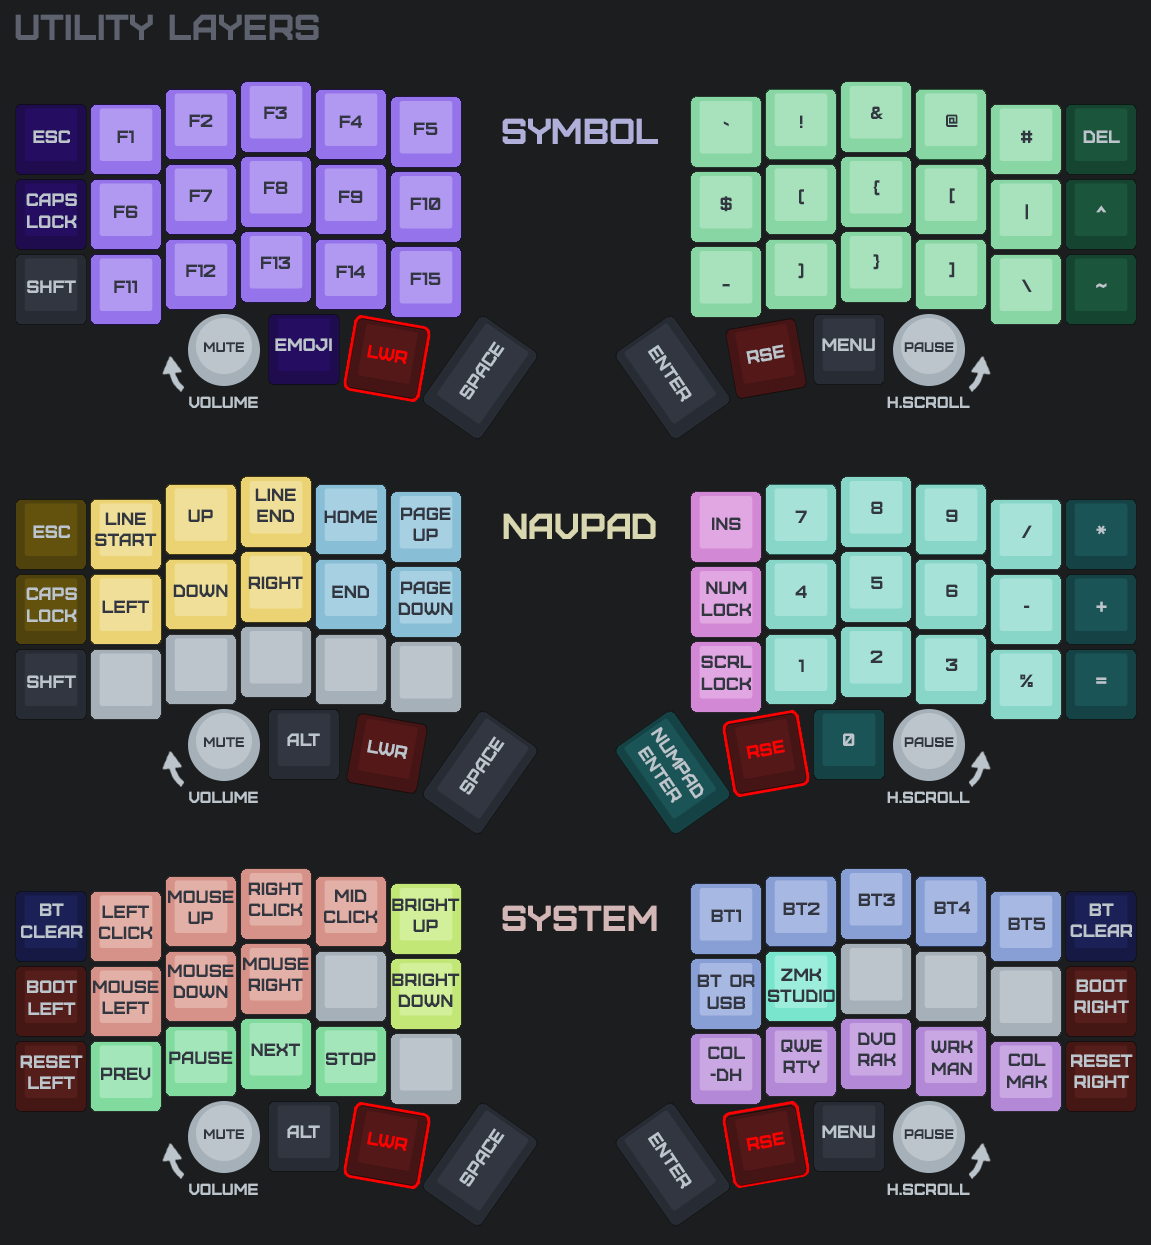
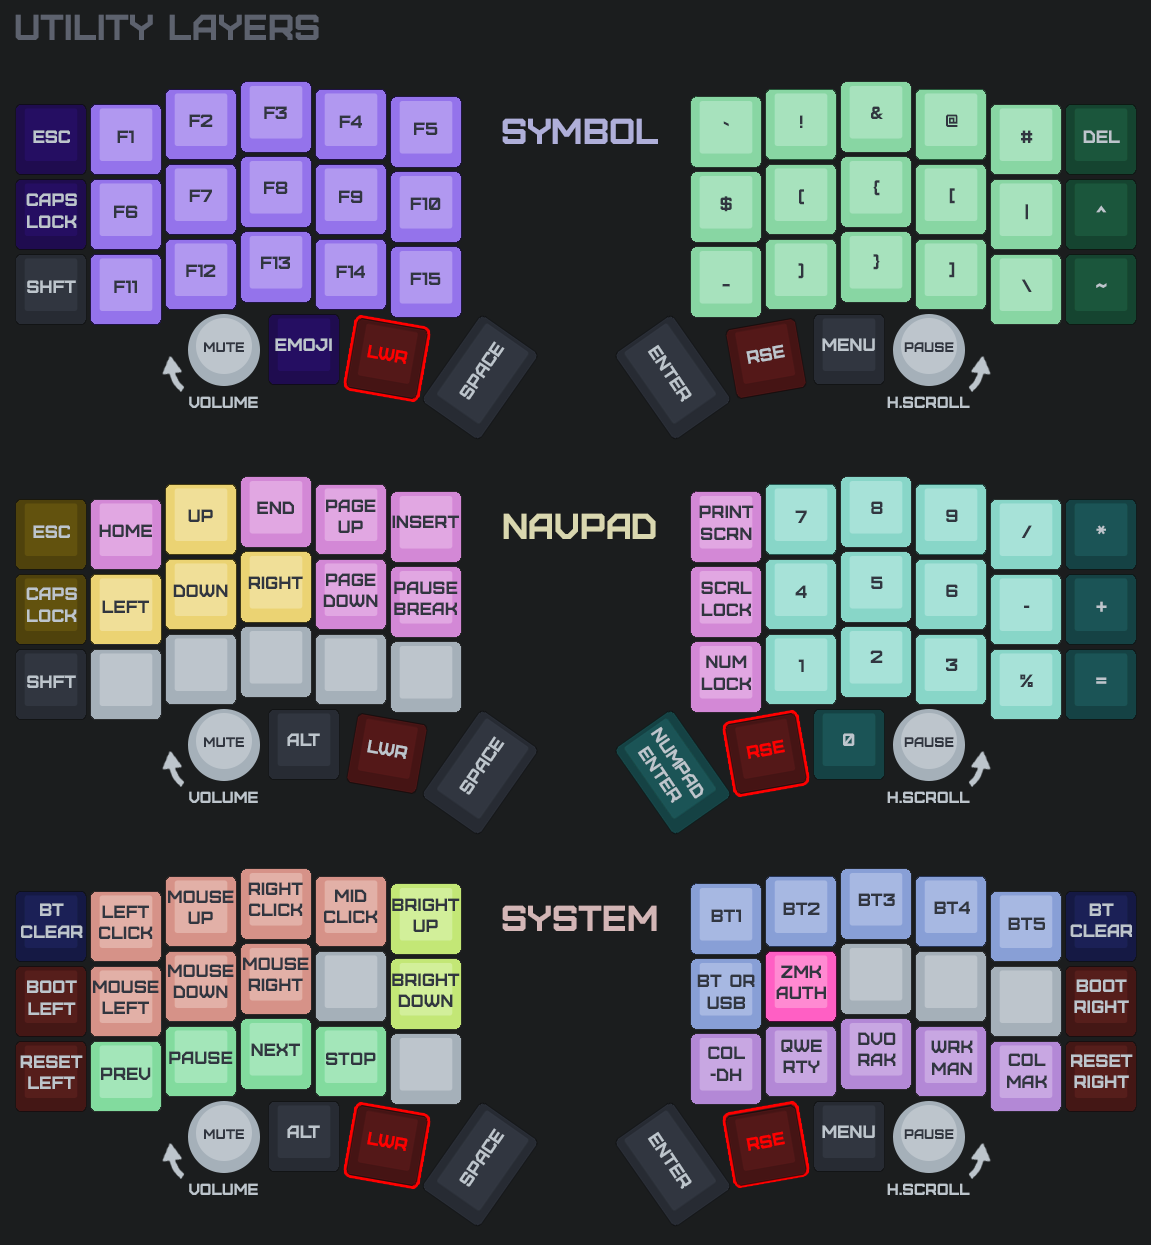
chore: update image assets to new keymap

diff --git a/KEYMAP.md b/KEYMAP.md
@@ -13,7 +13,7 @@ limitations on the [official documentation page](https://zmk.dev/docs/features/s
 1. Connect the left half via USB
 2. Make sure the keyboard is in USB mode (use the `BT or USB` key on the `SYSTEM` layer to toggle)
 3. Open ZMK Studio and connect
-4. When prompted to unlock, press the `ZMK Studio` key on the `SYSTEM` layer
+4. When prompted to unlock, press the `ZMK AUTH` key on the `SYSTEM` layer
 
 On Linux, you may need serial port access (log out and back in after):
 
